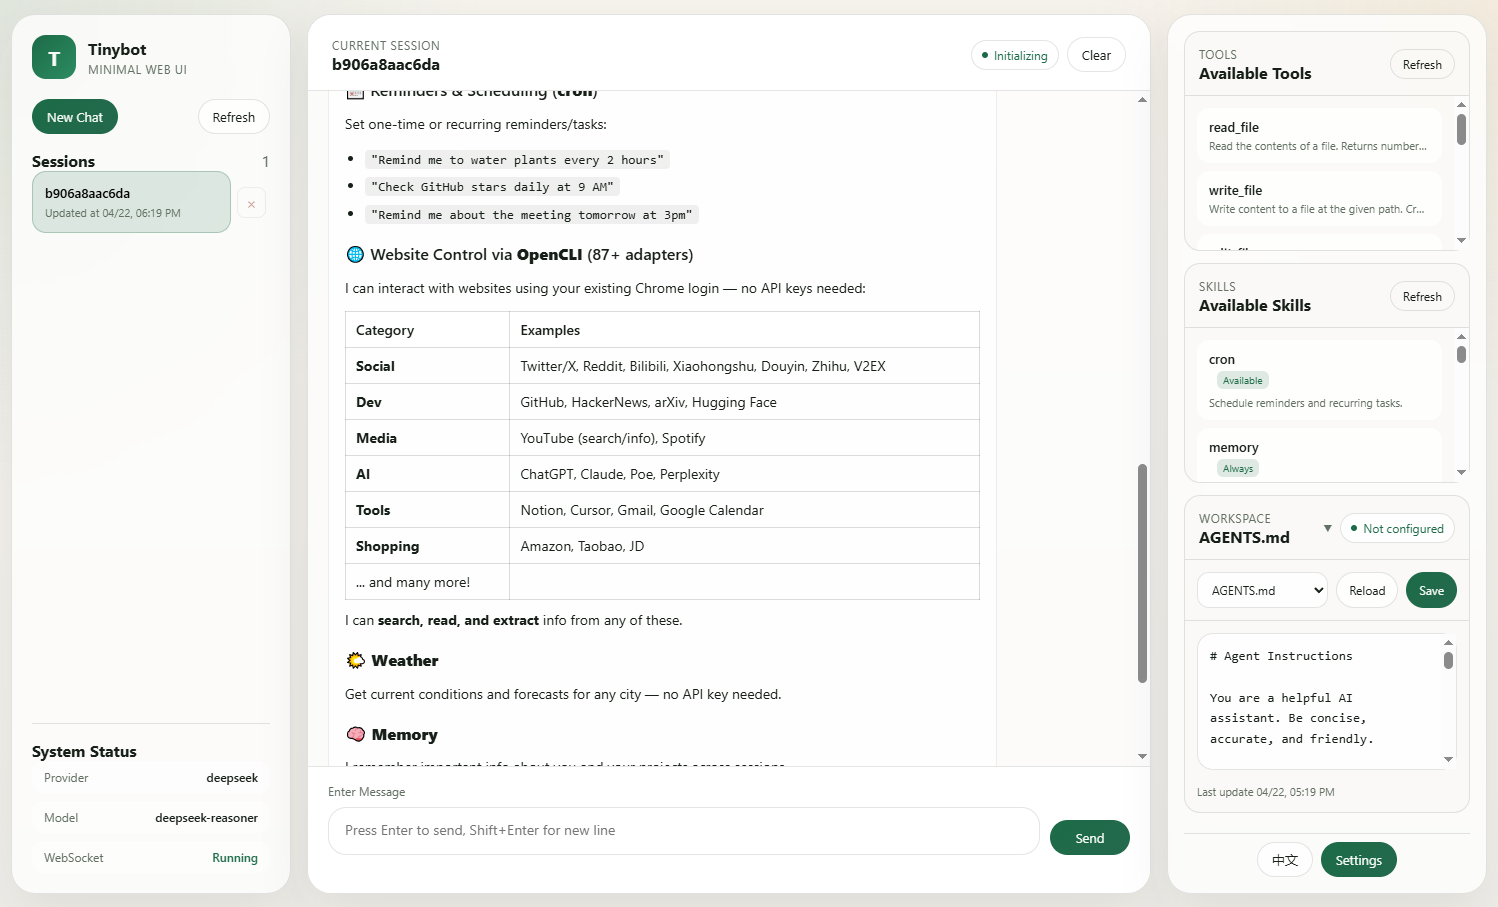
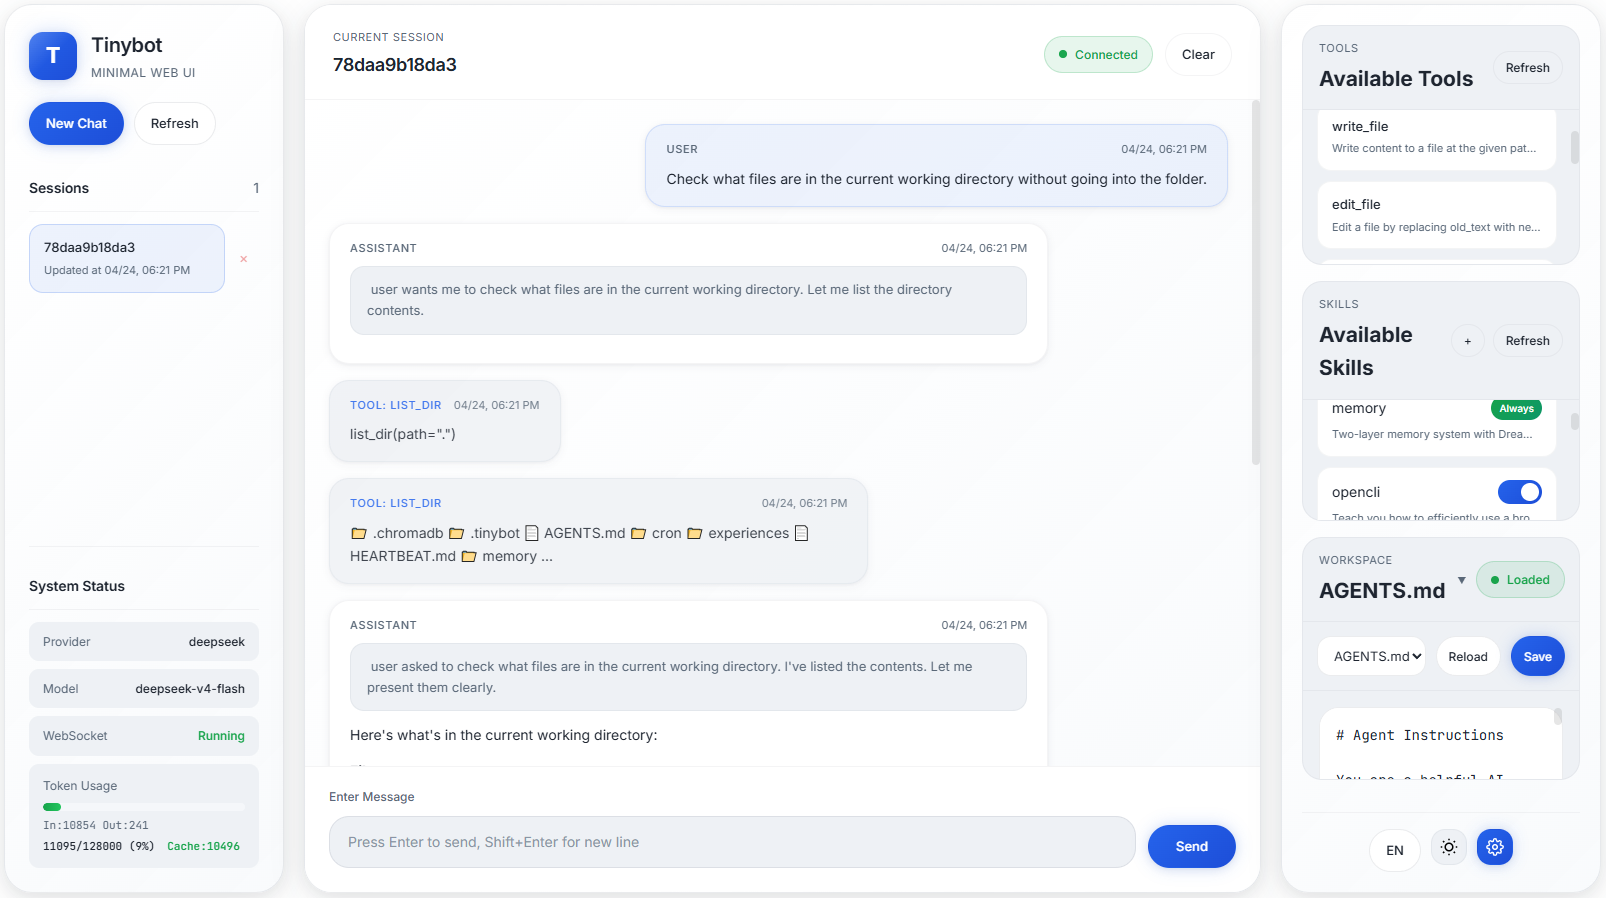
readme

diff --git a/README.md b/README.md
@@ -10,6 +10,20 @@
 
 A lightweight personal AI assistant framework that integrates Large Language Models with multiple chat platforms, tool systems, and automation mechanisms.
 
+## Change log
+
+<details>
+<summary>2026.04.24 new webui, human-create-skills, enable/disable skills,</summary>
+
+white mode
+
+![white](./show/webui_1.PNG)
+
+dark mode
+
+![dark](./show/webui_2.PNG)
+</details>
+
 ## ✨ Core Highlights
 
 ### 🧠 Agentic DAG Task Scheduling

diff --git a/README_ZH.md b/README_ZH.md
@@ -10,6 +10,20 @@
 
 一个轻量的个人 AI 助手框架，将大语言模型与多种聊天平台、工具系统和自动化机制集成在一起。
 
+## 更新日志
+
+<details>
+<summary>2026.04.24 新的 webui, 自定义skills, skills的自选激活</summary>
+
+日间模式
+
+![white](./show/webui_1.PNG)
+
+黑暗模式
+
+![dark](./show/webui_2.PNG)
+</details>
+
 ## ✨ 核心亮点
 
 ### 🧠 Agentic DAG 任务调度
